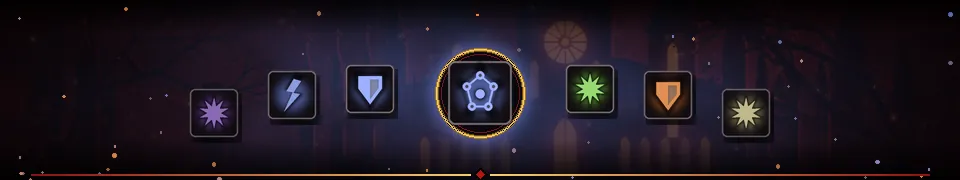
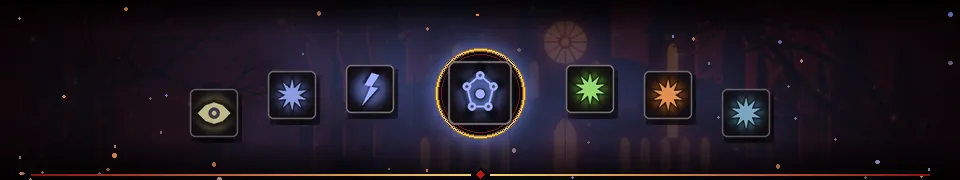
Unity Codex checks follow the new roll rule, wiki art regenerated (O461, O464)
The Codex data has no window of five any more: every tier the item level allows
rolls with equal weight. The per-type absorb rows left the Codex, so the bench
key check uses a skill modifier. Wiki icons and tab heroes rebuilt.

Claude-Session: https://claude.ai/code/session_01WHWmB5BBQcgggKkXbJNDqe

diff --git a/unity/Core.Tests/InfoTests.cs b/unity/Core.Tests/InfoTests.cs
@@ -695,7 +695,7 @@ namespace Chaos.Core.Tests
         static void CodexTests(Action<bool, string> check)
         {
             var d = CodexData.Load(Resource("Codex.json"));
-            check(d.Ready && d.Tabs.Count == 11 && d.EntryCount > 400 && d.Rarities.Count == 6 && d.TierLevels.Length == 8 && d.TierWindow == 5, "codex: the data loads (" + d.Tabs.Count + " tabs, " + d.EntryCount + " entries)");
+            check(d.Ready && d.Tabs.Count == 11 && d.EntryCount > 400 && d.Rarities.Count == 6 && d.TierLevels.Length == 8 && d.TierWindow == 8, "codex: the data loads (" + d.Tabs.Count + " tabs, " + d.EntryCount + " entries)");
             check(d.Tabs.Select(t => t.Id).SequenceEqual(new[] { "modifiers", "powers", "orbs", "gems", "uniques", "sets", "rift", "supports", "materials", "basics", "lore" }), "codex: the tabs in order");
             check(CodexView.Tokens("  Life  on KILL ").SequenceEqual(new[] { "life", "on", "kill" }) && CodexView.Tokens(null).Count == 0, "codex: tokens");
             check(CodexView.HasWord("life on kill", "kill") && !CodexView.HasWord("skill", "kill") && CodexView.HasWord("adds +5% life", "+5") && CodexView.HasWord("level 1-3 only", "1-3") && CodexView.HasWord("a kill", "ki"), "codex: a search word starts a word of the text");
@@ -714,22 +714,24 @@ namespace Chaos.Core.Tests
             check(CodexView.LevelOf(new Dictionary<string, string> { { ilvl.Key, "100" } }, mods.Filters) == 100 && CodexView.LevelOf(null, mods.Filters) == null, "codex: the chosen item level");
             check(CodexView.MaxTier(1, d) == 1 && CodexView.MaxTier(14, d) == 1 && CodexView.MaxTier(15, d) == 2 && CodexView.MaxTier(140, d) == 8 && CodexView.MaxTier(1000, d) == 8, "codex: the top tier of an item level");
             var rowsAt140 = CodexView.TierRows(140, d);
-            check(rowsAt140.Count == 5 && rowsAt140[0].Key == 8 && rowsAt140[4].Key == 4 && CodexView.TierRows(1, d).Count == 1, "codex: the tiers that roll, best first, in a window of five");
+            // O461: every tier the item level allows rolls, each with the same weight (no window of five)
+            check(rowsAt140.Count == 8 && rowsAt140[0].Key == 8 && rowsAt140[7].Key == 1 && CodexView.TierRows(60, d).Count == 4 && CodexView.TierRows(1, d).Count == 1, "codex: the tiers that roll, best first, every tier the item level allows");
             var ch = CodexView.TierChances(140, d);
             double sum = 0;
             foreach (var v in ch.Values) sum += v;
-            check(Math.Abs(sum - 100) < 0.6 && ch[8] == Math.Floor(12.0 * 1000 / (12 + 22 + 35 + 50 + 65) + 0.5) / 10, "codex: the chances add up to 100 (" + sum + ")");
+            check(Math.Abs(sum - 100) < 0.6 && ch[8] == 12.5 && ch[1] == 12.5, "codex: the chances add up to 100, equal per tier (" + sum + ")");
             var entry = mods.Entries.First(e => e.Tv != null);
-            check(CodexView.Subline(entry, null, d) == entry.Sub && CodexView.Subline(entry, 140, d).StartsWith("Item level 140: T4-T8: "), "codex: the list line at an item level");
+            check(CodexView.Subline(entry, null, d) == entry.Sub && CodexView.Subline(entry, 140, d).StartsWith("Item level 140: T1-T8: "), "codex: the list line at an item level");
             var tiers = entry.Sections.Select(s => CodexView.Section(s, d)).First(s => s != null && s.Tiers);
             var marked = CodexView.Highlight(tiers, 140, d);
-            check(marked.Count == 5 && marked.Contains(8) && !marked.Contains(3) && CodexView.Highlight(tiers, null, d).Count == 0, "codex: the tier rows that roll are marked");
+            var marked60 = CodexView.Highlight(tiers, 60, d);
+            check(marked.Count == 8 && marked.Contains(8) && marked.Contains(1) && marked60.Count == 4 && marked60.Contains(4) && !marked60.Contains(5) && CodexView.Highlight(tiers, null, d).Count == 0, "codex: the tier rows that roll are marked");
             var withRef = mods.Entries.First(e => e.Sections.Any(s => s.Ref.Length > 0));
             var refSection = withRef.Sections.First(s => s.Ref.Length > 0);
             check(CodexView.Section(refSection, d) != null && CodexView.Section(refSection, d).Rows != null && CodexView.Section(new CodexSection { Ref = "nope" }, d) == null, "codex: a shared section is looked up");
             int ti;
             check(CodexView.Find(d, "orb:divine", out ti) != null && d.Tabs[ti].Id == "orbs" && CodexView.Find(d, "nope", out ti) == null && ti == -1, "codex: find an entry by id");
-            check(CodexView.IdForMod("rarity_arcaneabsorb", "", d) == "mod:rarity_arcaneabsorb" && CodexView.IdForMod("nope", "", d) == null && CodexView.IdForMod("", "", d) == null, "codex: the page of a modifier the bench names");
+            check(CodexView.IdForMod("rarity_swordSkill", "", d) == "mod:rarity_swordskill" && CodexView.IdForMod("nope", "", d) == null && CodexView.IdForMod("", "", d) == null, "codex: the page of a modifier the bench names");
             var cols = CodexView.Columns(new double[] { 14, 22, 40, 24 }, 408, 8);
             check(cols.Length == 4 && cols.Sum() == 408 - 24 && cols.All(c => c >= 1), "codex: column widths add up to the total minus the gaps");
             check(CodexView.Columns(new double[0], 100, 8).Length == 0 && CodexView.Columns(new double[] { 0, 0 }, 100, 0).Sum() == 100, "codex: columns of nothing and of zero weights");
